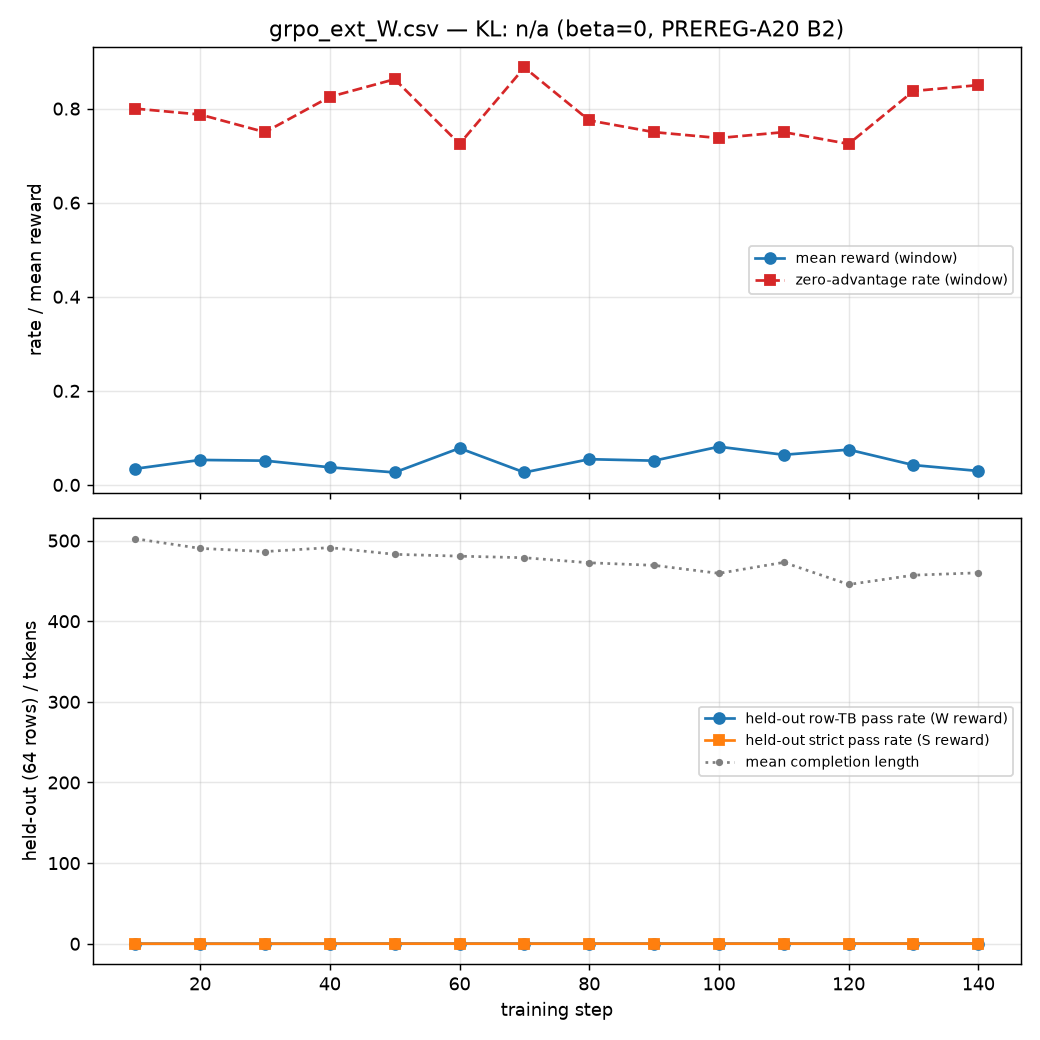
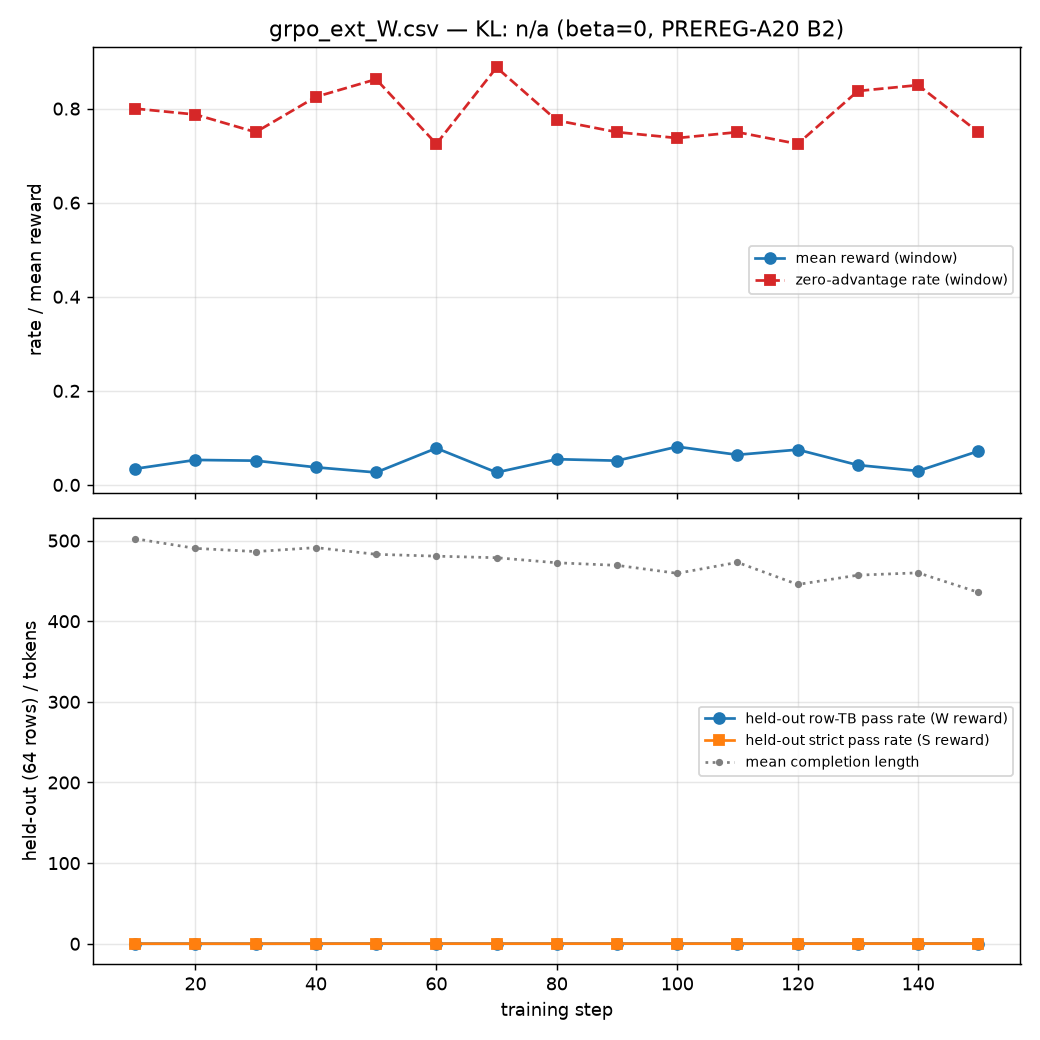
A20 grpo_ext_W: 10-step log #15 (CSV+plot)

diff --git a/notes/LOG.md b/notes/LOG.md
@@ -1679,3 +1679,6 @@ pipeline; no pinned file changed.
 - 2026-10-21 22:05 — [a20] e1 run rc=0 arms=['base', 'w100', 's100']
 - 2026-10-21 22:06 — [a20] e1 report rc=0
 - 2026-10-21 22:06 — [a20] grpo_ext_W: starting (steps=300 lr=1e-05 resume=none)
+- 2026-10-22 02:59 — [a20] heartbeat ots upgrade PREREG.md.ots: Success! Timestamp complete
+- 2026-10-22 02:59 — [a20] heartbeat ots upgrade PREREG-A19.md.ots: Success! Timestamp complete
+- 2026-10-22 02:59 — [a20] heartbeat ots upgrade PREREG-A20.md.ots: Success! Timestamp complete
